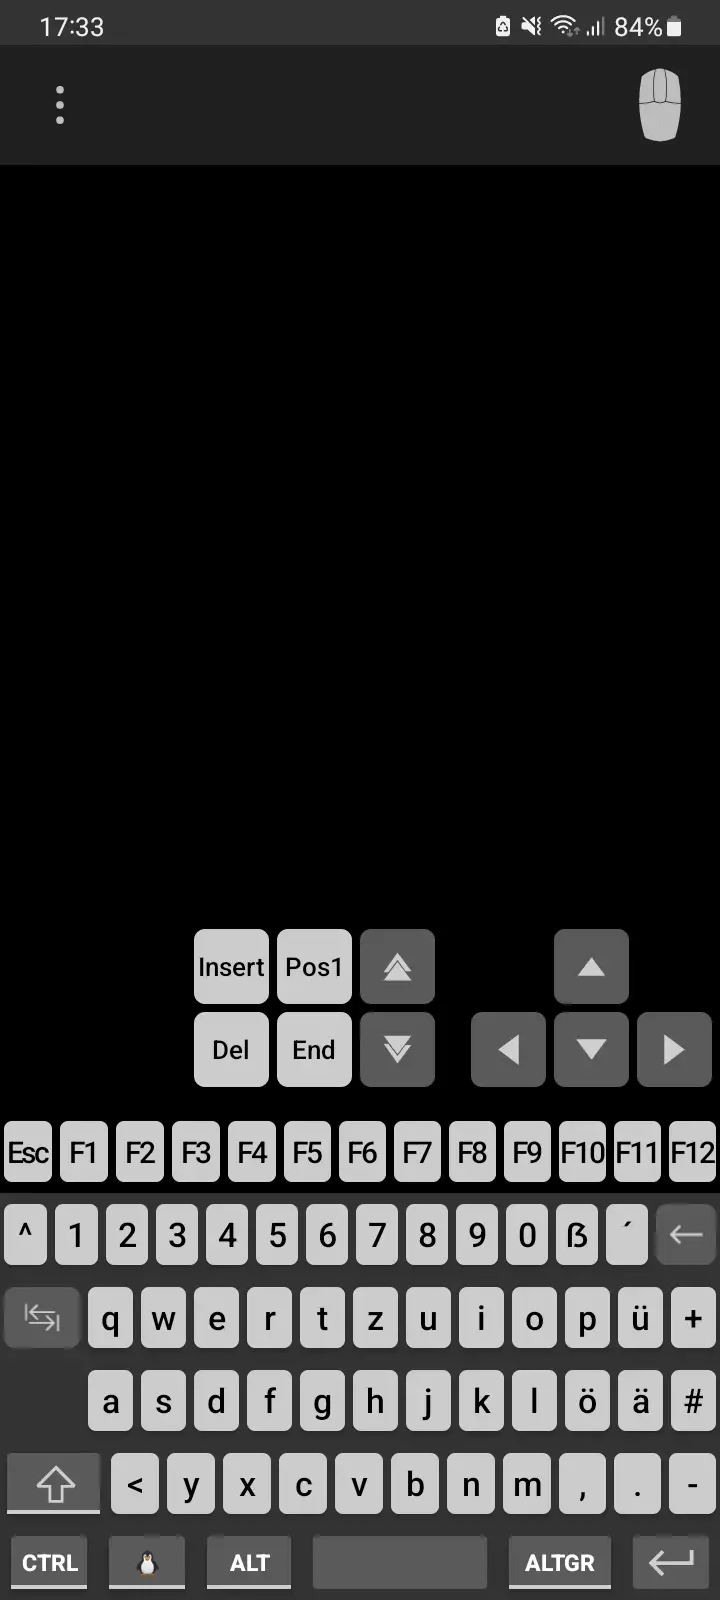
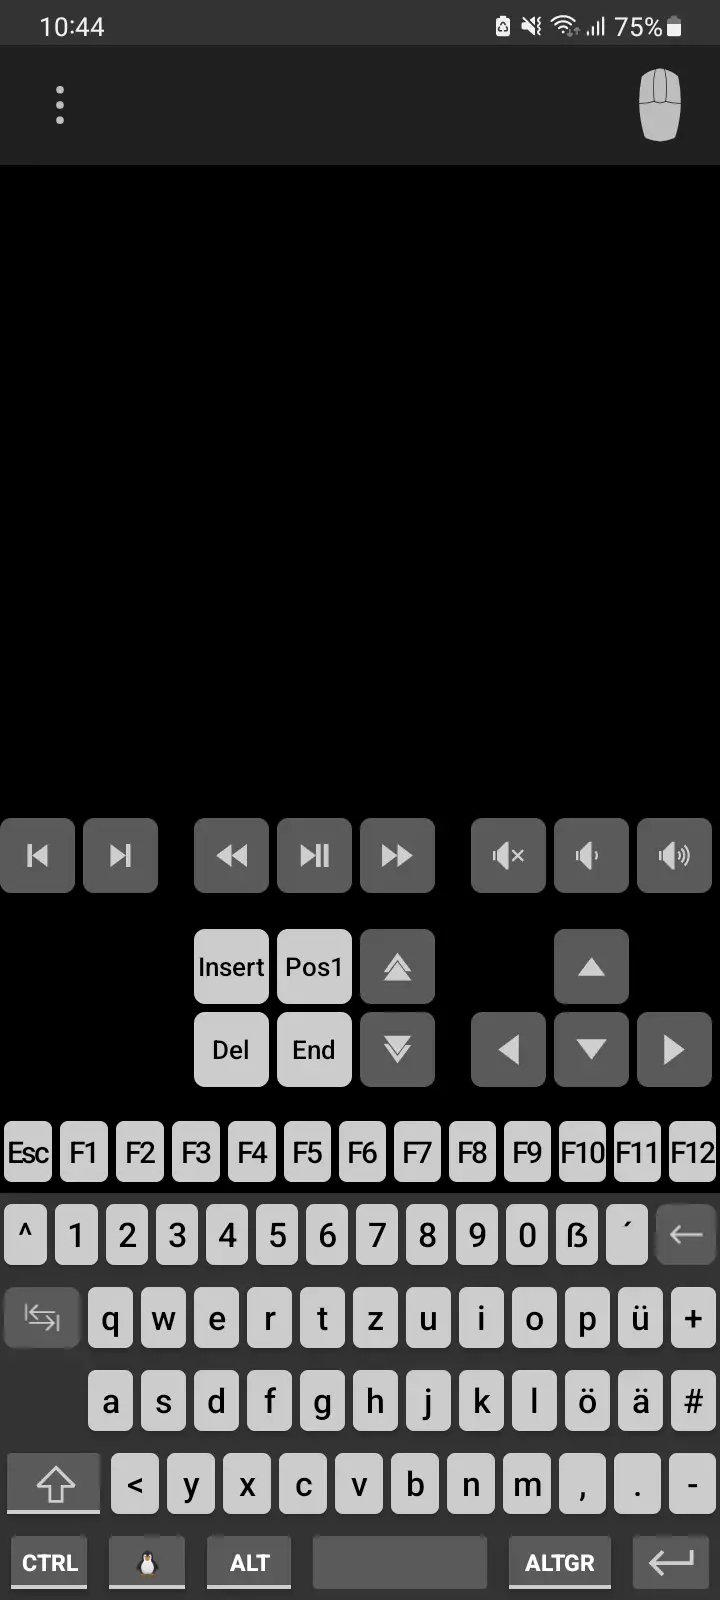
add media keys

diff --git a/app/src/main/java/kryptonbutterfly/hidoverwifi/ui/PreferencesActivity.kt b/app/src/main/java/kryptonbutterfly/hidoverwifi/ui/PreferencesActivity.kt
@@ -27,6 +27,12 @@ class PreferencesActivity : AppCompatActivity() {
 		enableEdgeToEdge()
 		setContentView(R.layout.activity_preferences)
 		main = findViewById(R.id.keyboardTopBar)
+		
+		keyboardLayout = findViewById(R.id.keyboardLayout)
+		layoutAdapter = ArrayAdapter<String>(this, android.R.layout.simple_spinner_item)
+		layoutAdapter.setDropDownViewResource(android.R.layout.simple_spinner_dropdown_item)
+		keyboardLayout.adapter = layoutAdapter
+		
 		ViewCompat.setOnApplyWindowInsetsListener(main) { v, insets ->
 			val systemBars = insets.getInsets(WindowInsetsCompat.Type.systemBars())
 			v.setPadding(systemBars.left, systemBars.top, systemBars.right, systemBars.bottom)
@@ -34,31 +40,23 @@ class PreferencesActivity : AppCompatActivity() {
 		}
 		
 		val prefs = prefs(this)
-		prefs.devices[prefs.currentDevice]?.also { device ->
-			
-			val switchScrollBar = findViewById<SwitchCompat>(R.id.switchScrollBar)
-			keyboardLayout = findViewById(R.id.keyboardLayout)
-			val copyFromHost = findViewById<SwitchCompat>(R.id.copyFromHost)
-			
-			switchScrollBar.isChecked = prefs.showScrollBar
-			
-			layoutAdapter = ArrayAdapter<String>(this, android.R.layout.simple_spinner_item)
-			layoutAdapter.setDropDownViewResource(android.R.layout.simple_spinner_dropdown_item)
-			keyboardLayout.adapter = layoutAdapter
-			
-			copyFromHost.isChecked = prefs.copyFromHost
-			
-			onBackPressedDispatcher.addCallback(this, object : OnBackPressedCallback(true) {
-				override fun handleOnBackPressed() {
-					prefs.showScrollBar = switchScrollBar.isChecked
-					
-					prefs.keyboardLayout = keyboardLayout.selectedItem as String
-					prefs.copyFromHost = copyFromHost.isChecked
-					savePrefs(this@PreferencesActivity)
-					finish()
-				}
-			})
-		}
+		
+		val switchScrollBar = findViewById<SwitchCompat>(R.id.switchScrollBar)
+		val copyFromHost = findViewById<SwitchCompat>(R.id.copyFromHost)
+		
+		switchScrollBar.isChecked = prefs.showScrollBar
+		copyFromHost.isChecked = prefs.copyFromHost
+		
+		onBackPressedDispatcher.addCallback(this, object : OnBackPressedCallback(true) {
+			override fun handleOnBackPressed() {
+				prefs.showScrollBar = switchScrollBar.isChecked
+				
+				prefs.keyboardLayout = keyboardLayout.selectedItem as String
+				prefs.copyFromHost = copyFromHost.isChecked
+				savePrefs(this@PreferencesActivity)
+				finish()
+			}
+		})
 	}
 	
 	override fun onWindowFocusChanged(hasFocus: Boolean) {

diff --git a/app/src/main/java/kryptonbutterfly/hidoverwifi/ui/KeyboardActivity.kt b/app/src/main/java/kryptonbutterfly/hidoverwifi/ui/KeyboardActivity.kt
@@ -126,6 +126,16 @@ class KeyboardActivity : AppCompatActivity() {
 		fun attach(id: Int, key: String) {
 			findViewById<View>(id).setOnTouchListener(KeyListener(key))
 		}
+		attach(R.id.buttonMediaRewind, "KEY_REWIND")
+		attach(R.id.buttonMediaFastforward, "KEY_FASTFORWARD")
+		
+		attach(R.id.buttonMediaPrevious, "KEY_PREVIOUS_SONG")
+		attach(R.id.buttonMediaPause, "KEY_PLAY_PAUSE")
+		attach(R.id.buttonMediaNext, "KEY_NEXT_SONG")
+		attach(R.id.buttonVolumeMute, "KEY_MUTE")
+		attach(R.id.buttonVolumeDown, "KEY_VOLUME_DOWN")
+		attach(R.id.buttonVolumeUp, "KEY_VOLUME_UP")
+		
 		attach(R.id.buttonRightArrow, "KEY_RIGHT")
 		attach(R.id.buttonDownArrow, "KEY_DOWN")
 		attach(R.id.buttonLeftArrow, "KEY_LEFT")

diff --git a/README.md b/README.md
@@ -13,7 +13,7 @@ In order to setup it's best to start with setting up the service first and come 
 
 #### App Setup
 
-* Download and install [HIDoverWifi.apk](https://github.com/kryptonbutterfly/HIDoverWifi_android/releases/download/v3.0.0/HIDoverWifi.apk)
+* Download and install [HIDoverWifi.apk](https://github.com/kryptonbutterfly/HIDoverWifi_android/releases/download/v3.0.1/HIDoverWifi.apk)
 * copy the public .p12 certificate to your phone
 * connect to the wifi network your computer is connected to
 * start the app